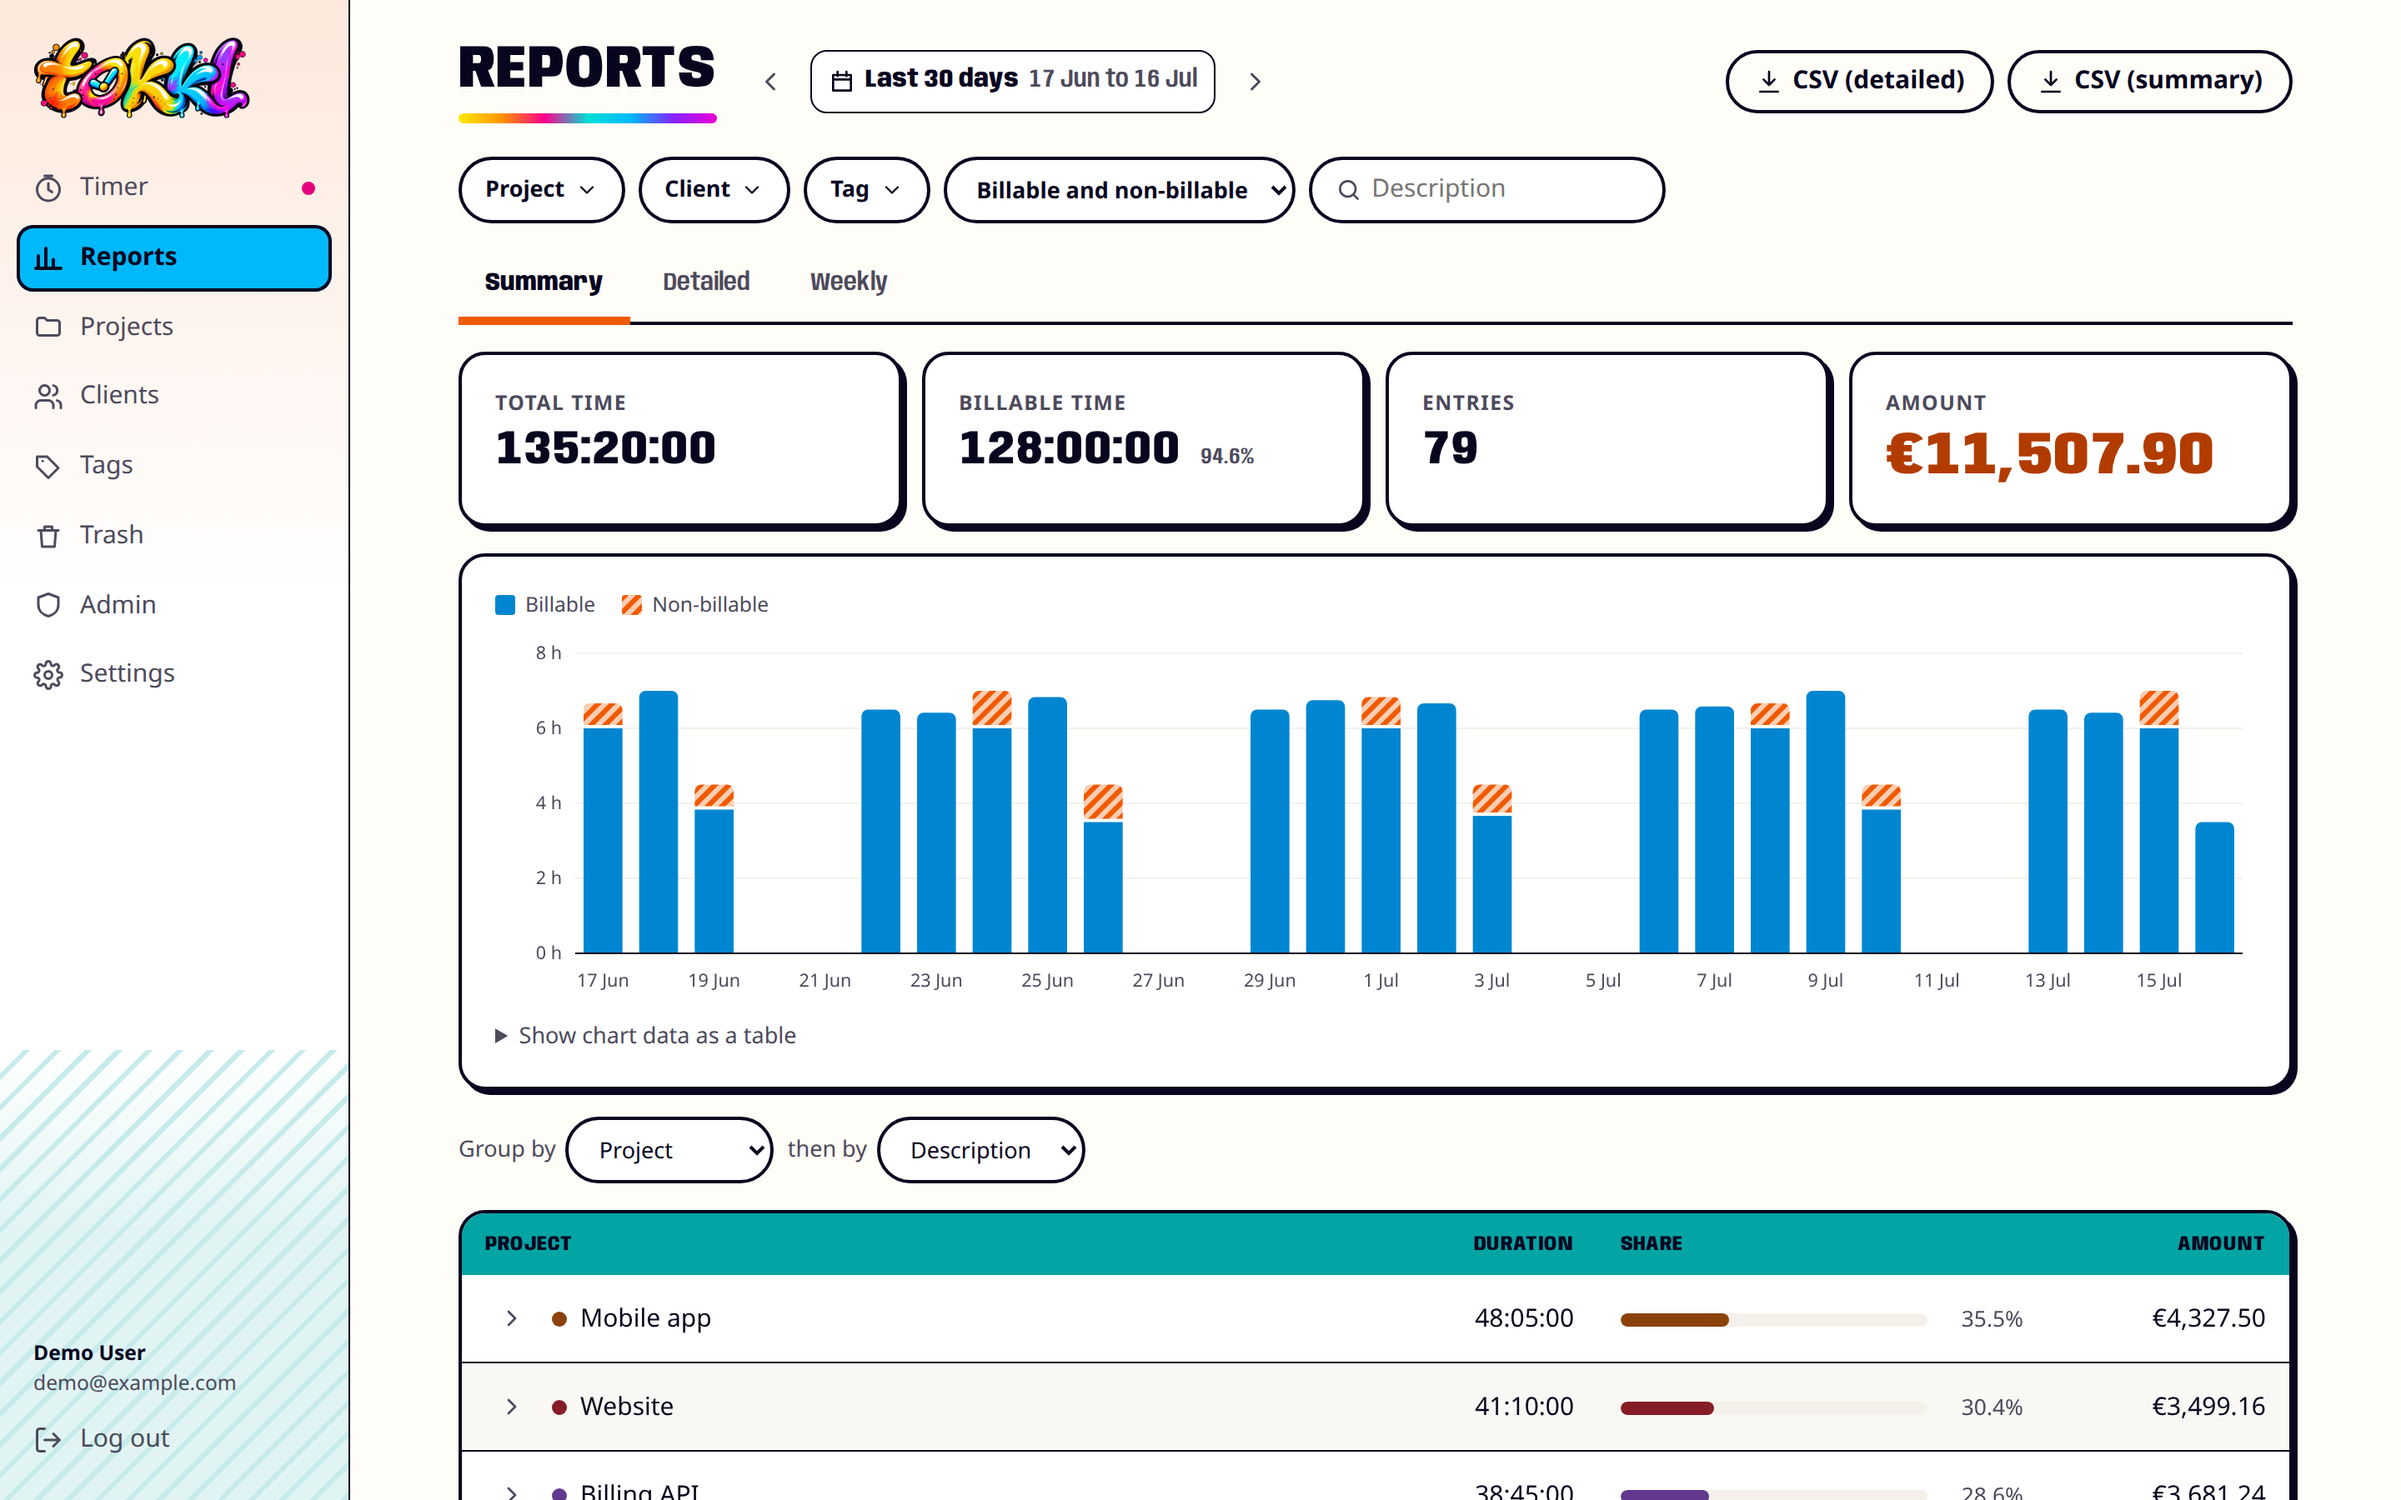
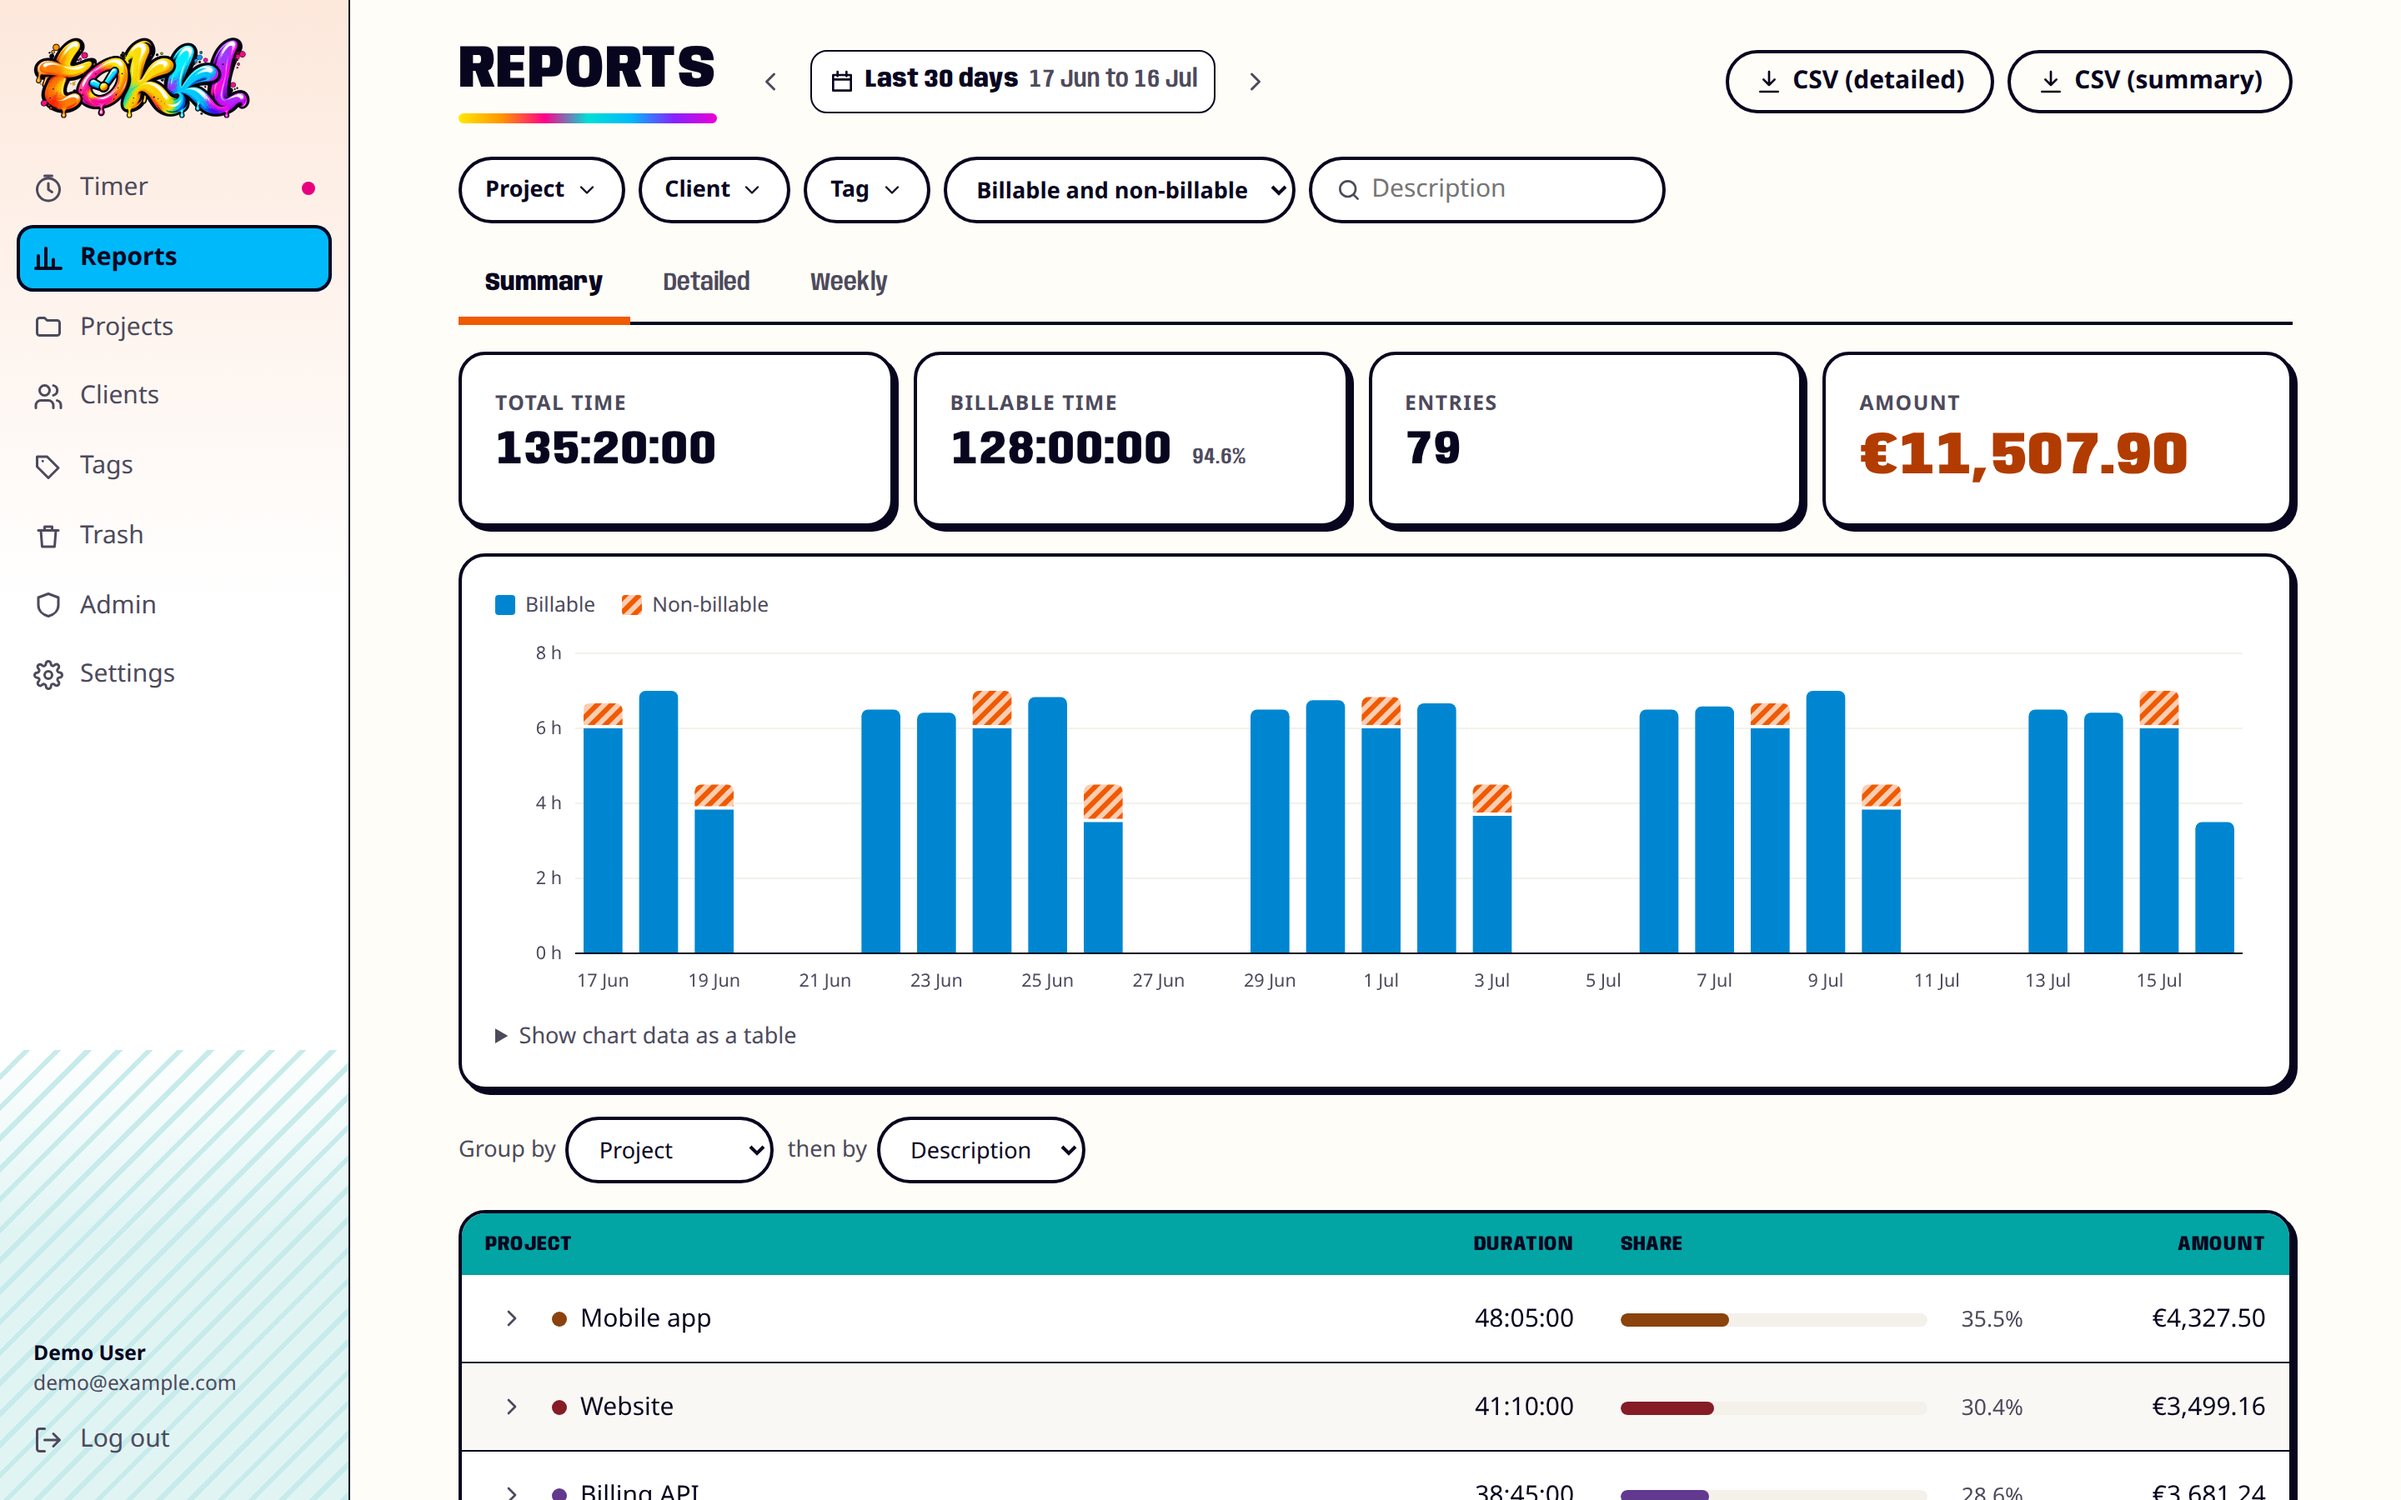
fix(reports): keep the Amount total whole above 760px
Above 760px the totals were a grid of equal tiles. The Amount figure broke inside the number in a
narrow desktop window and on a tablet in portrait, such as 768px, where it also left a gap in
the grid.

The totals now wrap as a row at every width. Amount sizes to its content and takes a row of its
own when it does not fit beside the other tiles, and each figure is nowrap. Those tiles have a
220px basis and share a width, so a time such as 127:55:00 no longer breaks at 768px. The phone
rules keep their 160px basis, so the 390px layout does not change.

docs/screenshots/desktop-reports-summary.png is refreshed. No visual baseline changes: the
fixture has no amount, and its three tiles keep their widths.

Refs: TT-0309

Changed region(s): [[0.75, 0.2178, 0.9375, 0.3733], [0.3438, 0.2489, 0.5312, 0.3422], [0.5625, 0.2178, 0.625, 0.3733]]

diff --git a/packages/web/src/pages/reports/reports.css b/packages/web/src/pages/reports/reports.css
@@ -88,12 +88,18 @@
 .report-error p { margin: 0 0 12px; }
 
 /* Totals */
-/* Stat tiles: a small label over a big display-face figure. The amount is the loudest number. */
+/* Stat tiles: a small label over a big display-face figure. The amount is the loudest number.
+   The tiles wrap as a row so the Amount tile can be as wide as its figures. The other tiles share a
+   width. Amount sizes to its content and takes a row of its own when it does not fit beside them, and
+   several currencies wrap between figures, never inside one. The basis of the other tiles leaves room
+   for a time such as 1127:55:00 at --text-2xl. */
 .report-totals {
-  display: grid; grid-template-columns: repeat(auto-fit, minmax(min(160px, 100%), 1fr)); gap: var(--space-3); margin: 0 0 var(--space-4);
+  --tile-basis: 220px;
+  display: flex; flex-wrap: wrap; gap: var(--space-3); margin: 0 0 var(--space-4);
 }
-/* Each total is a .card; grid items sit side by side, so drop the stacking margin. */
-.report-totals > .card { min-width: 0; border-width: 2px; border-radius: var(--radius-lg); }
+/* Each total is a .card; flex items sit side by side, so drop the stacking margin. */
+.report-totals > .card { flex: 1 1 var(--tile-basis); min-width: 0; border-width: 2px; border-radius: var(--radius-lg); }
+.report-totals > .report-totals-amount { flex-basis: auto; }
 .report-totals > .card + .card { margin-top: 0; }
 .report-totals dt {
   font-size: var(--text-sm); font-weight: 700; color: var(--muted); text-transform: uppercase; letter-spacing: 0.06em;
@@ -104,7 +110,7 @@
   min-width: 0; overflow-wrap: anywhere;
 }
 .report-totals-share { font-size: var(--text-md); font-weight: 600; }
-.report-amount { font-size: var(--text-3xl); font-weight: 900; color: var(--primary-text); }
+.report-amount { font-size: var(--text-3xl); font-weight: 900; color: var(--primary-text); white-space: nowrap; overflow-wrap: normal; }
 
 /* Chart */
 .report-chart-card { margin-bottom: 16px; }
@@ -233,13 +239,11 @@
   .report-filters .search-box { flex: 1 1 160px; }
   .report-filters .search-box input { width: 100%; }
   .report-totals dd { font-size: var(--text-xl); }
-  .report-amount { font-size: var(--text-2xl); white-space: nowrap; overflow-wrap: normal; }
-  /* The tiles wrap as a row instead of a grid, so the Amount tile can be as wide as its figures. Entries
-     and Amount size to their content and share a row when both fit. Otherwise Amount takes a row of its
-     own, and several currencies wrap between figures, never inside one. */
-  .report-totals { display: flex; flex-wrap: wrap; }
-  .report-totals > .card { flex: 1 1 160px; }
-  .report-totals > .report-totals-entries, .report-totals > .report-totals-amount { flex-basis: auto; }
+  .report-amount { font-size: var(--text-2xl); }
+  /* Times are set at --text-xl here, so the tiles are narrower, and Entries sizes to its content so it
+     can share a row with Amount. */
+  .report-totals { --tile-basis: 160px; }
+  .report-totals > .report-totals-entries { flex-basis: auto; }
   .report-tab { padding: 8px 12px 6px; }
   .breakdown-table td:first-child { width: auto; }
   .share { min-width: 110px; gap: 6px; }
